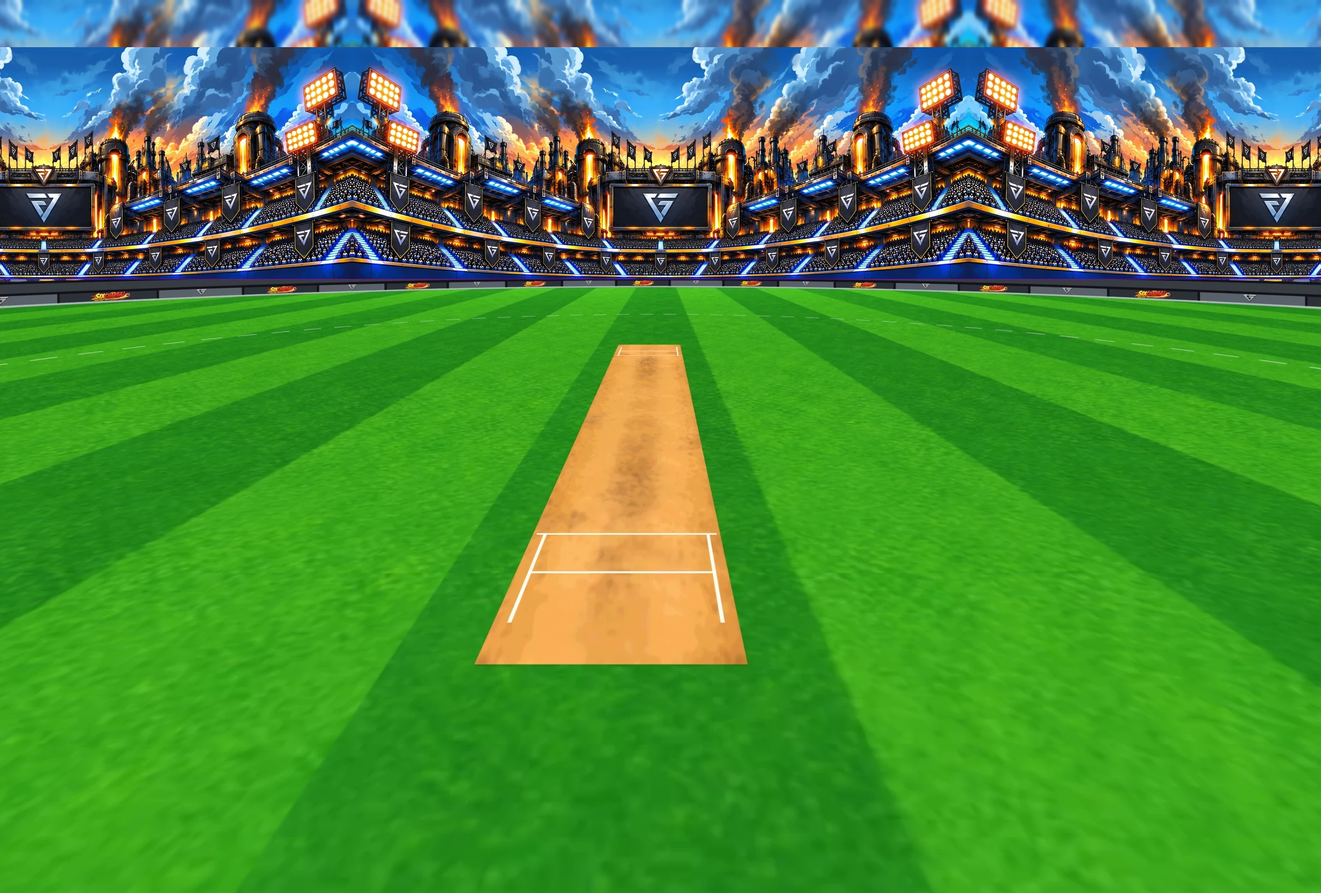
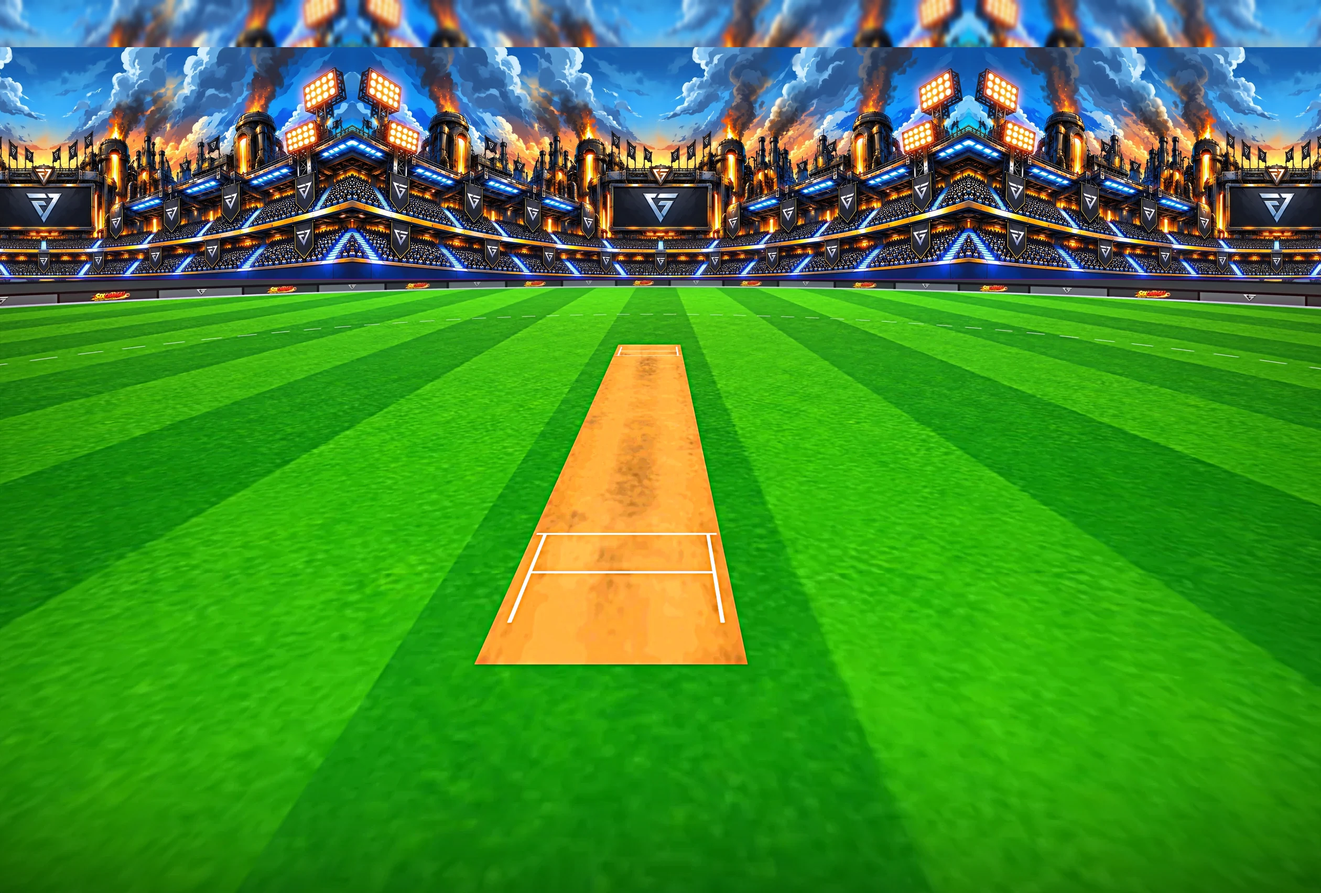
Foundry: bake a furnace-lit finish into the ground views (preview, not yet published)
Claude-Session: https://claude.ai/code/session_01NK7tbrKg5PdA6fuyEUPXLd

Changed region(s): [[0.0619, 0.311, 0.8976, 0.7465], [0.0, 0.8087, 1.0, 1.0], [0.2786, 0.6221, 0.3405, 0.6532]]

diff --git a/tools/build_thunderdome_art.py b/tools/build_thunderdome_art.py
@@ -46,6 +46,40 @@ def structure_top(a):
     return int(np.nonzero(notsky.mean(1) > 0.015)[0].min())
 
 
+def grade(out, bt, stand):
+    """the Foundry's finish: the furnaces light the field and the boards glow, the grass is crisper and
+    richer, so the ground has the shine and ink-crisp pop the players have. Baked into the view."""
+    H, W = out.shape[:2]
+    f = out.copy()
+    rows = np.arange(H)[:, None, None].astype(np.float64)
+    field = np.clip((rows - bt - 6) / 30, 0, 1)                         # (below the boards)
+    # crisper: an unsharp mask on the field, so the stripes and the pitch read cleanly
+    blur = ndi.gaussian_filter(out, (5, 5, 0))
+    f = np.where(field > 0, out + (out - blur) * 0.9 * field, f)
+    # richer grass: a lift in saturation and a touch of contrast
+    lum = f.mean(2, keepdims=True)
+    sat = lum + (f - lum) * (1 + 0.22 * field)
+    f = np.where(field > 0, (sat - 128) * (1 + 0.06 * field) + 128, f)
+    # the furnaces' glow spilling on the grass: the stand's own colours just above the boards, smeared
+    # down the field, strongest at the boards and gone by a third of the way down
+    band = stand[-90:].mean(0)                                         # (W, 3)
+    band = ndi.gaussian_filter1d(band, W * 0.03, axis=0)
+    warm = np.clip(band * np.array([1.25, 0.8, 0.45]), 0, 255)          # (pushed towards fire)
+    fall = np.clip(1 - (rows - bt) / (0.34 * (H - bt)), 0, 1) ** 1.6 * field
+    spill = warm[None] * fall
+    f = 255 - (255 - f) * (255 - spill * 0.55) / 255                   # screen
+    # the rim of light along the boards, and the boards' own glow (a bloom of what's bright there)
+    bandrows = (np.abs(rows - bt) < 70).astype(np.float64)
+    bright = np.clip(f - 150, 0, None) * bandrows
+    bloom = ndi.gaussian_filter(bright, (9, 9, 0)) * 1.1
+    f = 255 - (255 - f) * (255 - np.clip(bloom, 0, 255)) / 255
+    # a soft vignette at the foot and the sides
+    ys = np.clip((rows - H * 0.75) / (H * 0.25), 0, 1) ** 2
+    xs = (np.abs(np.arange(W)[None, :, None] - W / 2) / (W / 2)) ** 3
+    f = f * (1 - 0.32 * ys - 0.22 * xs * field)
+    return np.clip(f, 0, 255)
+
+
 def build_view(name, v):
     g = np.asarray(Image.open(os.path.join(SRC, f'ground-{name}.webp')).convert('RGB')).astype(np.float64)
     H, W = g.shape[:2]
@@ -81,6 +115,8 @@ def build_view(name, v):
     row_struct = top + structure_top(st) * p
     d94 = v['dir'] * ((CY + v['dir'] * 94) - v['cz'])
     roof_h = v['cy'] - (row_struct - v['above']) * d94 / v['f']
+    if CLUB == 'titans':
+        out = grade(out, bt, stand)
     Image.fromarray(np.clip(out, 0, 255).astype(np.uint8)).save(os.path.join(OUT, f'view-{name}.webp'), 'WEBP', quality=90, method=6)
     print(name, 'painting', (pw, ph), 'boards row', bt, 'top', top, 'stand structure at', round(row_struct), 'roof h', round(roof_h, 1))
     return dict(top=meta_top, bottom=meta_bottom, roof=dict(r=94, h=round(roof_h, 1)), w=W, h=H, f=v['f'], above=v['above'])
